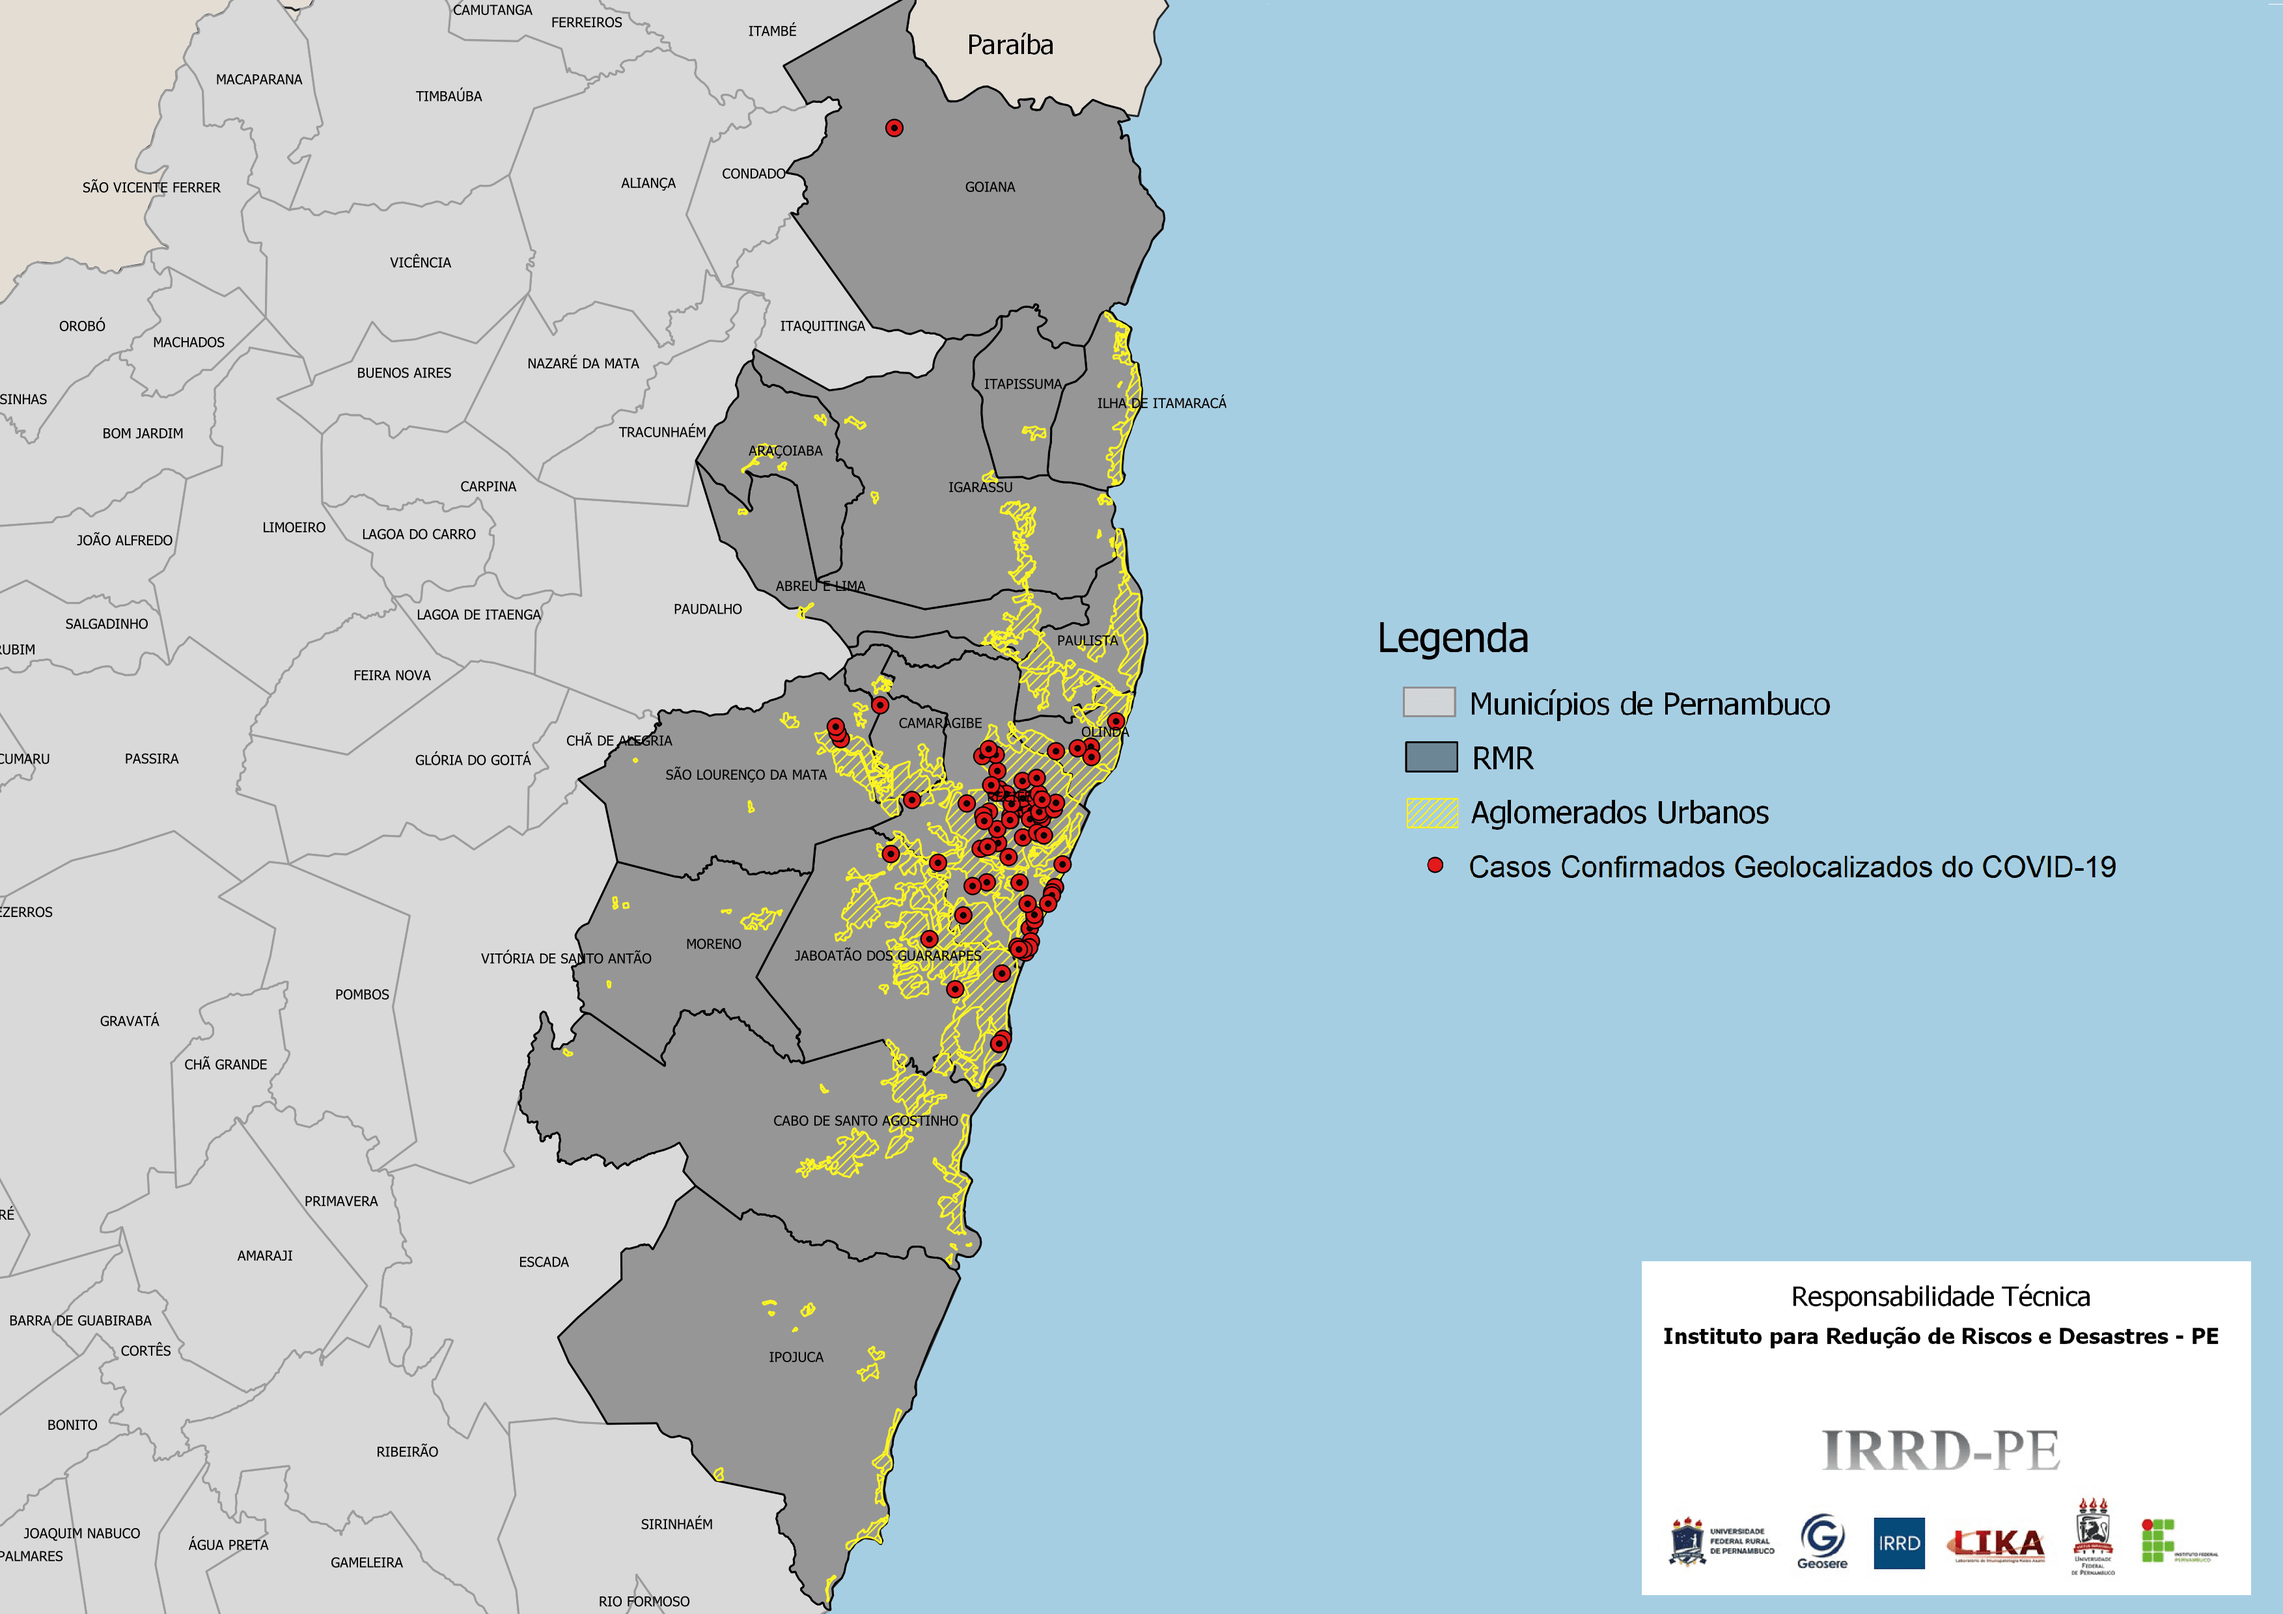
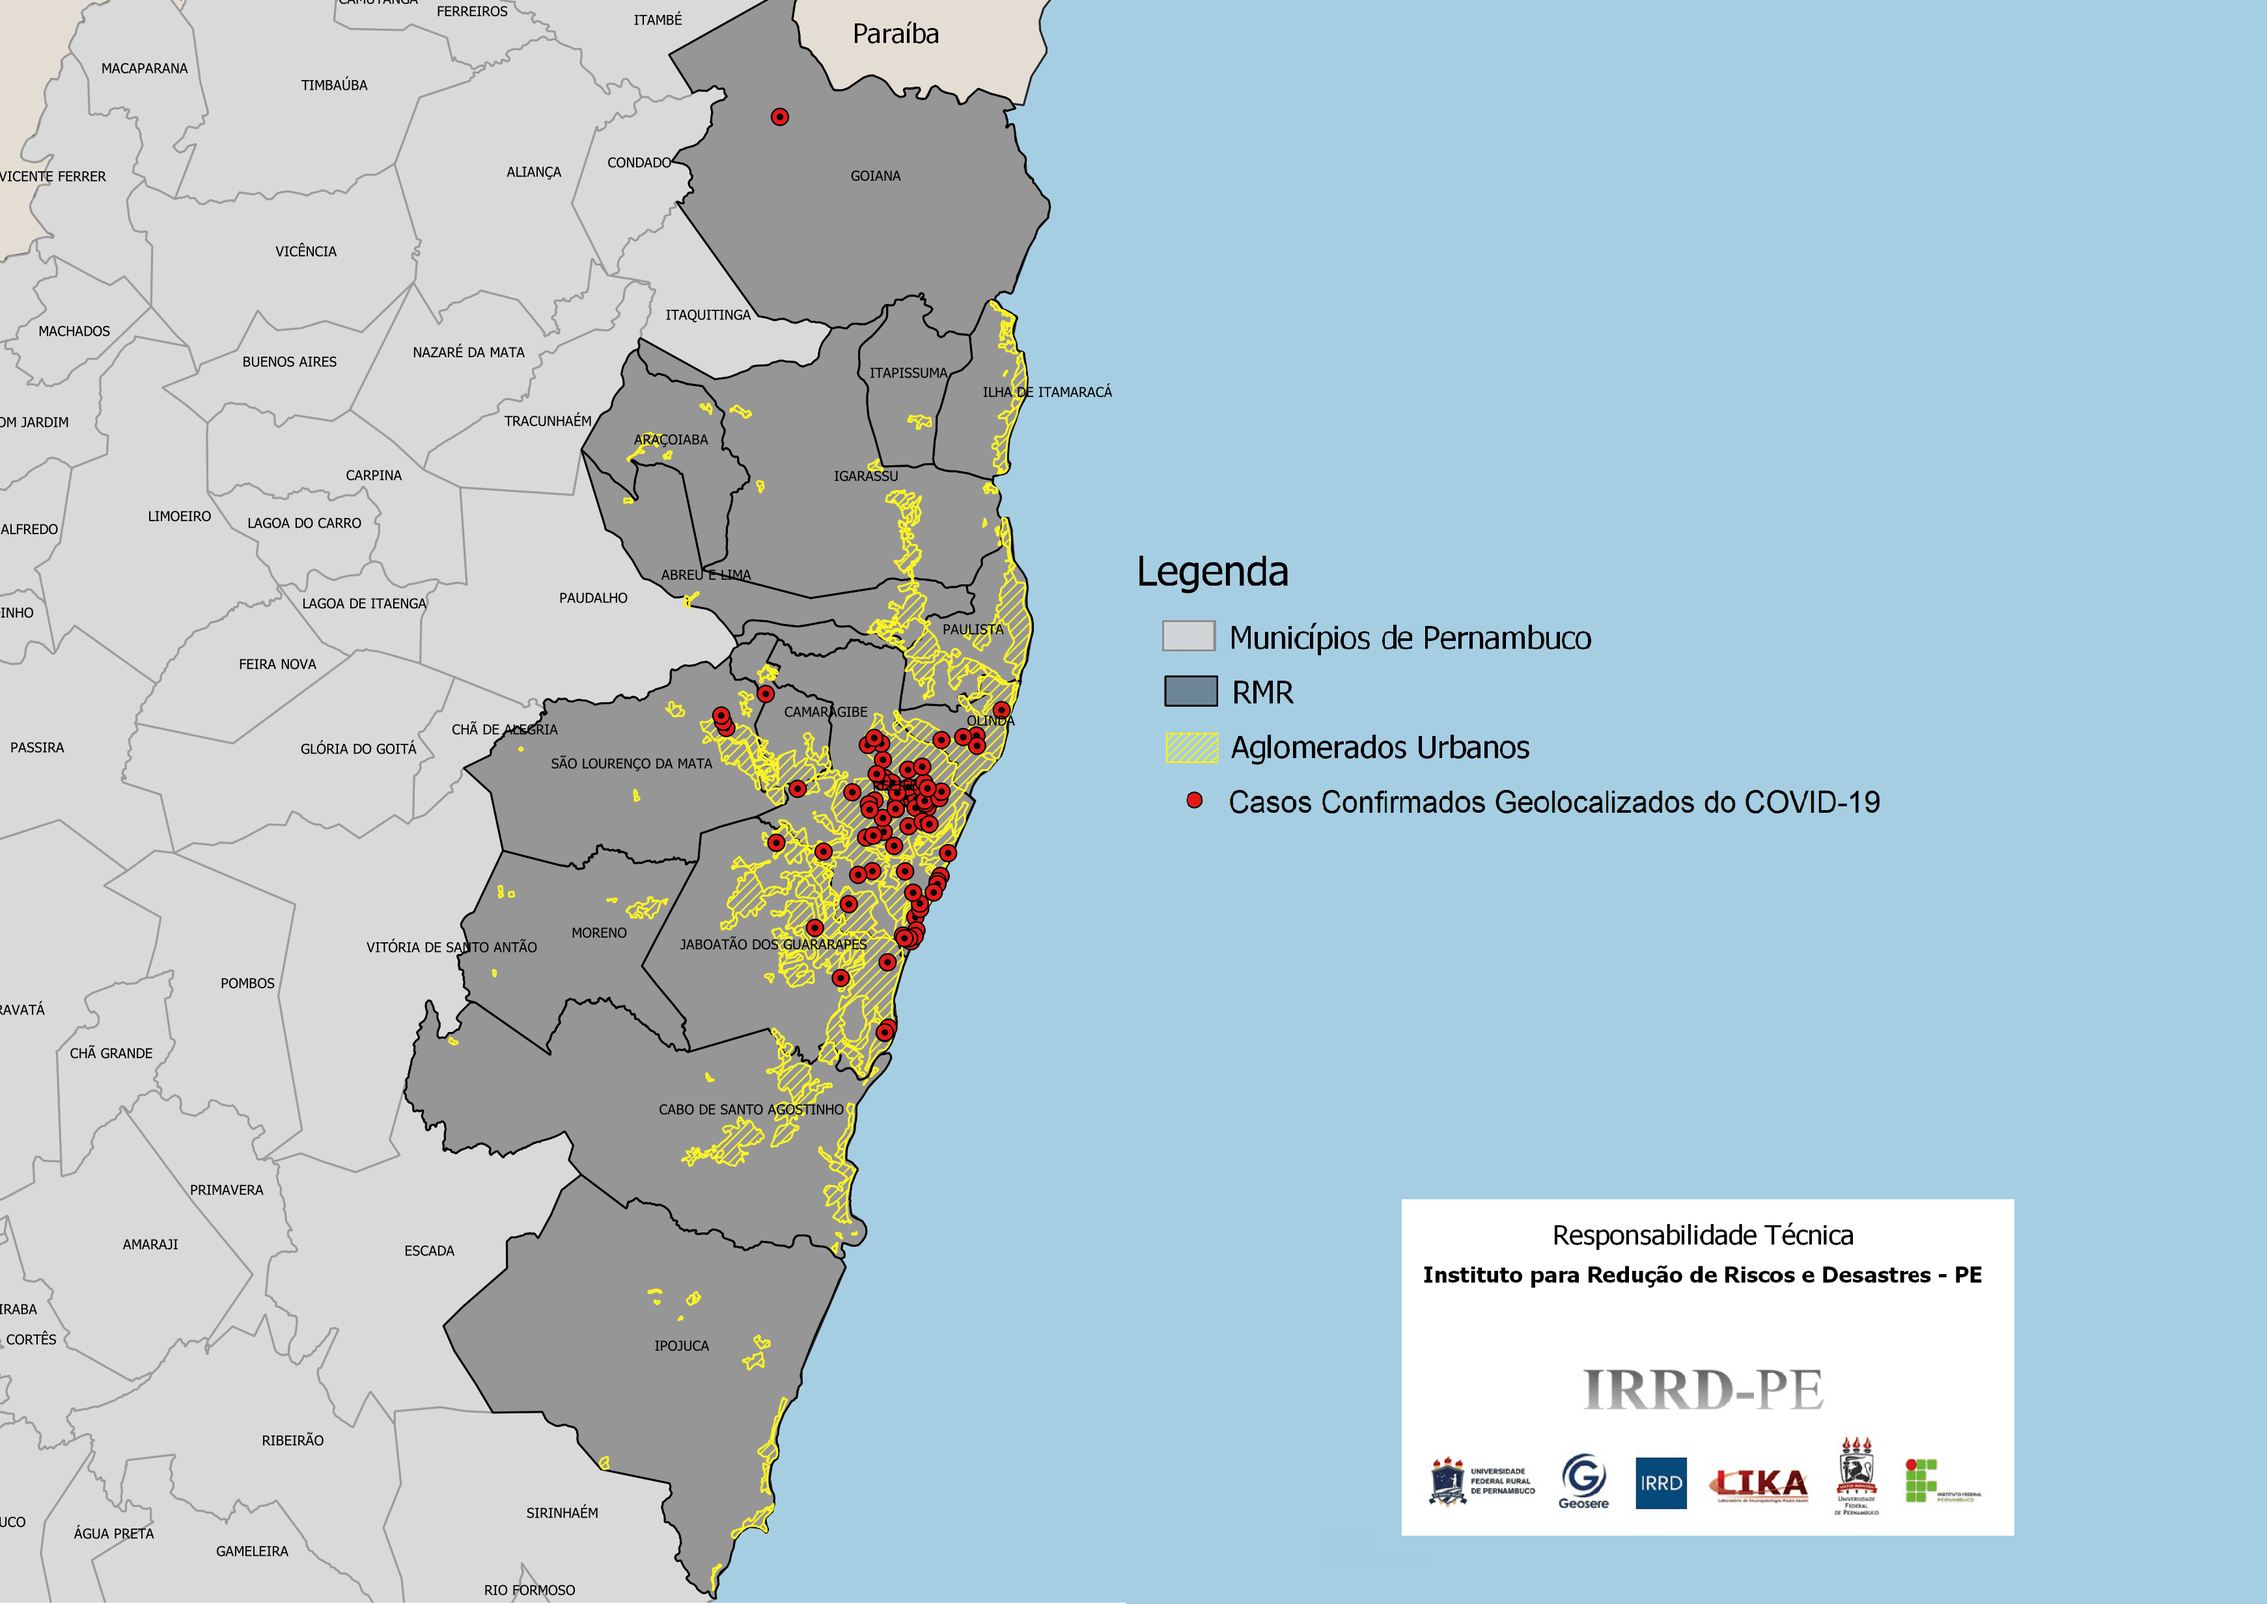
Ajustes

diff --git a/src/AppConfigMaps.js b/src/AppConfigMaps.js
@@ -706,6 +706,14 @@ export const mapsConfig = [
 	{
 		"date": "19/08/2020",
 		"img": "img/brasil/covid19-brasil-municipios-200819.png"
+	},
+	{
+		"date": "20/08/2020",
+		"img": "img/brasil/covid19-brasil-municipios-200820.png"
+	},
+	{
+		"date": "21/08/2020",
+		"img": "img/brasil/covid19-brasil-municipios-200821.png"
 	}
 /** inject-images:end(brasil) */
         ],
@@ -1390,6 +1398,10 @@ export const mapsConfig = [
 	{
 		"date": "20/08/2020",
 		"img": "img/nordeste/brasil-nordeste-temporal-200820.png"
+	},
+	{
+		"date": "21/08/2020",
+		"img": "img/nordeste/brasil-nordeste-temporal-200821.png"
 	}
 /** inject-images:end(nordeste) */
         ],
@@ -2001,6 +2013,10 @@ export const mapsConfig = [
 	{
 		"date": "20/08/2020",
 		"img": "img/pernambuco/covid19-pe-tem-200820.png"
+	},
+	{
+		"date": "21/08/2020",
+		"img": "img/pernambuco/covid19-pe-tem-200821.png"
 	}
 /** inject-images:end(pernambuco) */
         ],
@@ -2285,6 +2301,10 @@ export const mapsConfig = [
 	{
 		"date": "20/08/2020",
 		"img": "img/pernambuco-recuperados/covid19-pe-rec-200820.png"
+	},
+	{
+		"date": "21/08/2020",
+		"img": "img/pernambuco-recuperados/covid19-pe-rec-200821.png"
 	}
 /** inject-images:end(pernambuco-recuperados) */
         ],
@@ -2569,6 +2589,10 @@ export const mapsConfig = [
 	{
 		"date": "20/08/2020",
 		"img": "img/pernambuco-obitos/covid19-pe-obt-200820.png"
+	},
+	{
+		"date": "21/08/2020",
+		"img": "img/pernambuco-obitos/covid19-pe-obt-200821.png"
 	}
 /** inject-images:end(pernambuco-obitos) */
         ],
@@ -2849,6 +2873,10 @@ export const mapsConfig = [
 	{
 		"date": "20/08/2020",
 		"img": "img/pernambuco-ativos/covid19-pe-atv-200820.png"
+	},
+	{
+		"date": "21/08/2020",
+		"img": "img/pernambuco-ativos/covid19-pe-atv-200821.png"
 	}
 /** inject-images:end(pernambuco-ativos) */
         ],
@@ -3433,6 +3461,10 @@ export const mapsConfig = [
 	{
 		"date": "20/08/2020",
 		"img": "img/rmr/aglomerados-confirmados-20.08.png"
+	},
+	{
+		"date": "21/08/2020",
+		"img": "img/rmr/aglomerados-confirmados-21.08.png"
 	}
 /** inject-images:end(rmr) */
         ],
@@ -3769,6 +3801,10 @@ export const mapsConfig = [
 	{
 		"date": "20/08/2020",
 		"img": "img/rmr-recuperados/35-recuperados-totais-20.08.png"
+	},
+	{
+		"date": "21/08/2020",
+		"img": "img/rmr-recuperados/35-recuperados-totais-21.08.png"
 	}
 /** inject-images:end(rmr-recuperados) */
         ],
@@ -3793,6 +3829,10 @@ export const mapsConfig = [
 	{
 		"date": "20/08/2020",
 		"img": "img/rmr-obitos/obitos-20.08.png"
+	},
+	{
+		"date": "21/08/2020",
+		"img": "img/rmr-obitos/obitos-21.08.png"
 	}
 /** inject-images:end(rmr-obitos) */
         ],
@@ -3881,6 +3921,10 @@ export const mapsConfig = [
 	{
 		"date": "20/08/2020",
 		"img": "img/rmr-ativos/ativos-totais-20.08.png"
+	},
+	{
+		"date": "21/08/2020",
+		"img": "img/rmr-ativos/ativos-totais-21.08.png"
 	}
 /** inject-images:end(rmr-ativos) */
         ],
@@ -4545,6 +4589,10 @@ export const mapsConfig = [
 	{
 		"date": "20/08/2020",
 		"img": "img/recife/20.08b-n.png"
+	},
+	{
+		"date": "21/08/2020",
+		"img": "img/recife/67-21.08b-n.png"
 	}
 /** inject-images:end(recife) */
         ],
@@ -5149,6 +5197,10 @@ export const mapsConfig = [
 	{
 		"date": "20/08/2020",
 		"img": "img/recife-recuperados/20.08-rectot.png"
+	},
+	{
+		"date": "21/08/2020",
+		"img": "img/recife-recuperados/21.08-rectot.png"
 	}
 /** inject-images:end(recife-recuperados) */
         ],
@@ -5457,6 +5509,10 @@ export const mapsConfig = [
 	{
 		"date": "20/08/2020",
 		"img": "img/recife-ativos/20.08ativos-total.png"
+	},
+	{
+		"date": "21/08/2020",
+		"img": "img/recife-ativos/21.08ativos-total.png"
 	}
 /** inject-images:end(recife-ativos) */
         ],
